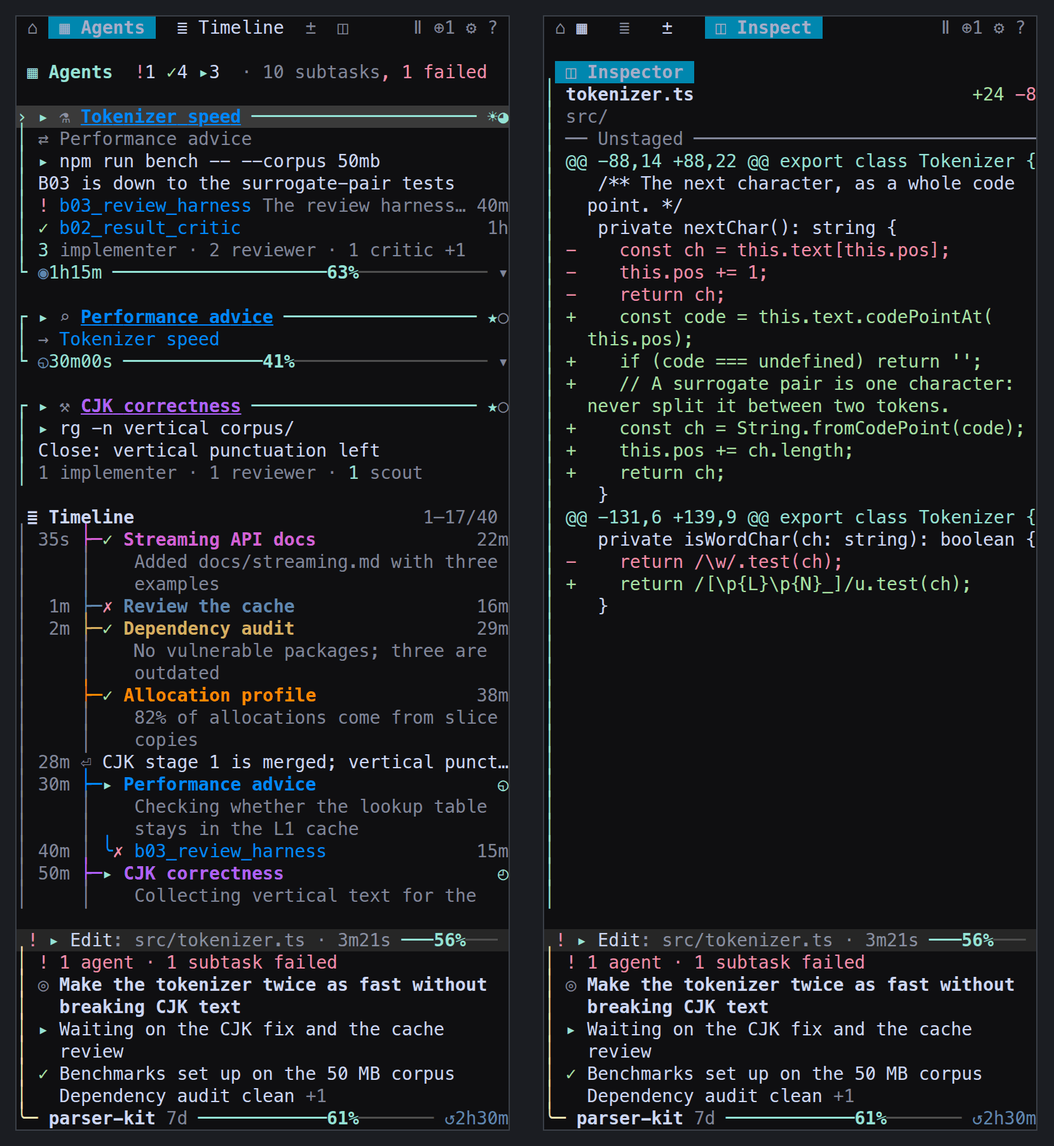
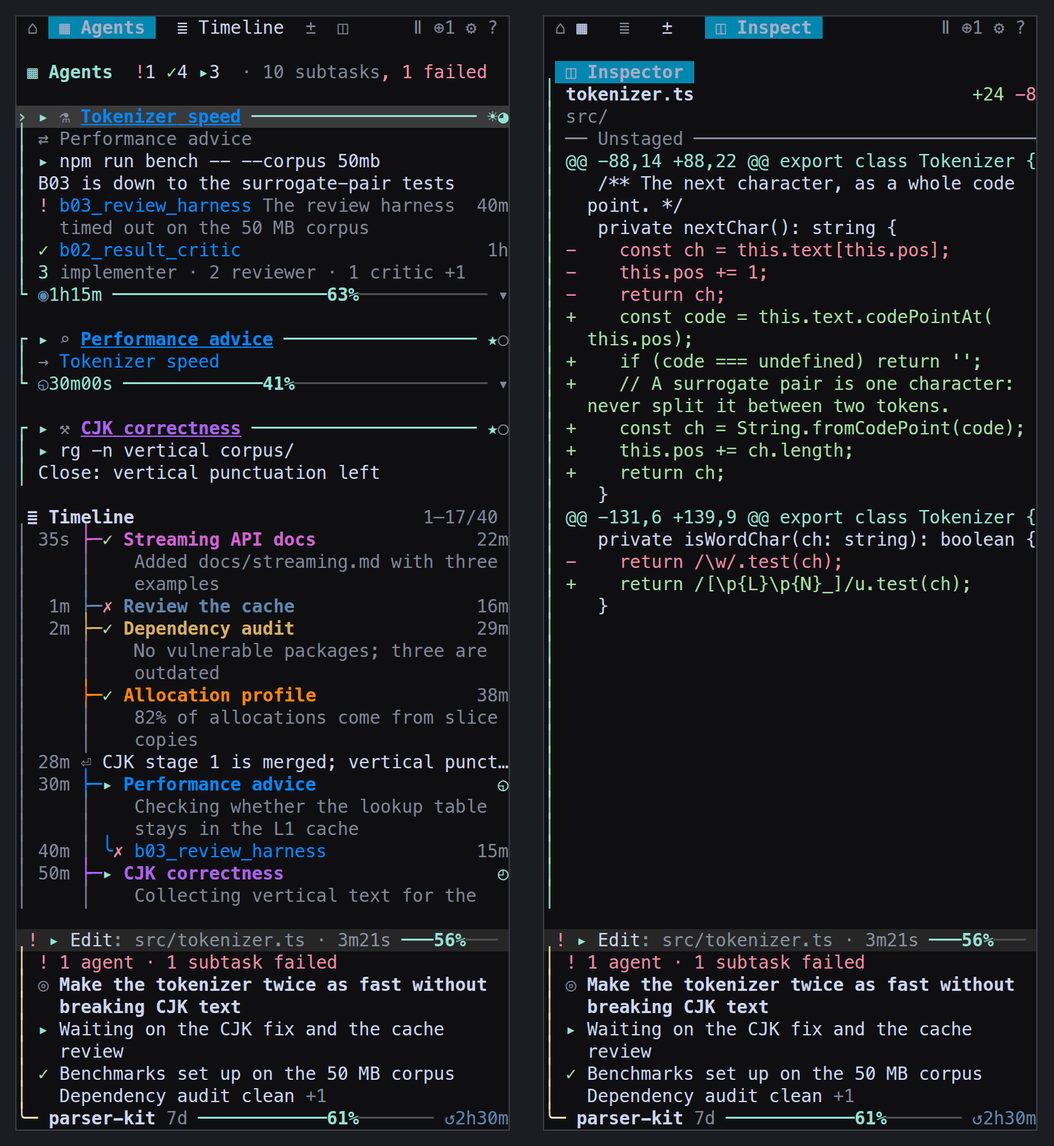
Wrap a subtask's digest or cause under its name on a card, whole, where it was cut with `…`: the words start beside the name and continue under it, on the next line when the name leaves fewer than eight columns, the clock or age stays at the right of the first line, and a click on any of its lines s

diff --git a/src/render/cards.ts b/src/render/cards.ts
@@ -19,7 +19,8 @@
  *   │ ⇄ Performance advice
  *   │ ▸ npm run bench -- --corpus 50mb
  *   │ B03 is down to the surrogate-pair tests
- *   │ ! b03_review_harness The review harness… 40m
+ *   │ ! b03_review_harness The review harness  40m
+ *   │   timed out on the 50 MB corpus
  *   │ ✓ b02_result_critic                     1h
  *   │ 3 implementer · 2 reviewer · 1 critic +1
  *   └ ◉1h15m · ~42 tok/s ─────63%─────────── ▾
@@ -56,6 +57,8 @@ const TIMELINE_LINES = 20;
 const NOTES_SHOWN = 3;
 /** The important subtasks a closed card names; opened, it names them all. */
 const KIDS_SHOWN = 3;
+/** The fewest columns a subtask's digest or cause starts with beside its name; less, it starts on the next line. */
+const KID_SAID_BESIDE = 8;
 /** Narrower than this, a card gives up its model badge; narrower still, its meter. */
 const BADGE_MIN = 24;
 const METER_MIN = 20;
@@ -490,12 +493,15 @@ function importantKids(node: SubagentTreeNode, input: MonitorData, state: Monito
 }
 
 /**
- * A subtask's line on its lead's card: its status, its name, the model's
+ * A subtask's lines on its lead's card: its status, its name, the model's
  * digest of what it returned or, failed, why (dim, with no mark; its own
- * answer is the Inspector's), and its time at the right: its clock while it runs, else how long ago it finished. A click
- * selects it, for the Inspector.
+ * answer is the Inspector's), and its time at the right of the first line:
+ * its clock while it runs, else how long ago it finished. The model's words
+ * start beside the name and wrap under it, whole, never cut; where the name
+ * leaves them too little room they start on the next line. A click on any
+ * of its lines selects it, for the Inspector.
  */
-function kidLine(kid: SubagentTreeNode, input: MonitorData, state: MonitorState, width: number, now: number): string {
+function kidLines(kid: SubagentTreeNode, input: MonitorData, state: MonitorState, width: number, now: number): string[] {
   const st = nodeStatus(kid,now);
   const live = isLive(kid);
   const start = (kid.turnStartedAt ?? kid.startedAt)?.getTime();
@@ -510,8 +516,12 @@ function kidLine(kid: SubagentTreeNode, input: MonitorData, state: MonitorState,
   const room = Math.max(1,width-visualLength(head)-(when ? visualLength(when)+1 : 0));
   const name = squeeze(monitorText(agentTitle(kid,state.labelAsName).name),room);
   const named = directions(input.tree).paint(kid.id)(name);
-  const left = `${head}${named}${said && visualLength(name)+2 < room ? ` ${colors.dim(said)}` : ''}`;
-  return pair(left,right,width);
+  const indent = visualLength(head);
+  const beside = room-visualLength(name)-1;
+  const rest = Math.max(1,width-indent);
+  const words = !said ? [] : beside >= KID_SAID_BESIDE ? hangLines(said,beside,rest) : ['',...flowLines(said,rest)];
+  const first = pair(`${head}${named}${words[0] ? ` ${colors.dim(words[0])}` : ''}`,right,width);
+  return [first,...words.slice(1).map(line => ' '.repeat(indent)+colors.dim(line))];
 }
 
 /**
@@ -620,7 +630,7 @@ export function agentCard(row: PanelRow, input: MonitorData, state: MonitorState
   const kids = (all: boolean) => {
     const important = importantKids(node,input,state);
     const named = all ? important : important.slice(0,KIDS_SHOWN);
-    for (const kid of named) push(kidLine(kid,input,state,inner,now),kid.id);
+    for (const kid of named) for (const line of kidLines(kid,input,state,inner,now)) push(line,kid.id);
     if (named.length < important.length) push(colors.dim(t('+{n} more',{n:important.length-named.length})));
     const roles = state.roleCounts === false ? '' : roleLine(node,input.tree,inner);
     if (roles) push(roles);

diff --git a/tests/unit/cards-l1.test.ts b/tests/unit/cards-l1.test.ts
@@ -109,6 +109,33 @@ test('the subtasks that matter: failed, a named role (or its end), or flagged; t
   assert.ok(plain(draw(picked, 52, tree).lines).some(line => line.startsWith('│ ›! scout_a')));
 });
 
+test('a subtask\'s digest or cause wraps under its name, whole; with too little room beside the name it starts on the next line', () => {
+  const cause = 'The harness timed out on the large corpus after the cache warmed up';
+  const tree = session();
+  tree.nodes[0].children = tree.nodes[0].children.map(kid => kid.id === 's1' ? { ...kid, name: 'scout_streams_long_name' } : kid);
+  const log = new Map<string, AgentLogEntry[]>([['s1', [{ at: NOW - 60_000, kind: 'cause', text: cause }]]]);
+  const said = (width: number) => {
+    const frame = draw(rich(), width, tree, log);
+    const lead = card(plain(frame.lines), 'parser_lead');
+    const at = lead.findIndex(line => line.includes('scout_streams'));
+    const lines = [lead[at], ...lead.slice(at + 1).filter((line, i, all) => all.slice(0, i + 1).every(l => /^│ {3}\S/.test(l)))];
+    return { frame, lines };
+  };
+  for (const width of [32, 44, 56]) {
+    const { lines } = said(width);
+    assert.ok(!lines.some(line => line.includes('…')), lines.join('\n'));
+    assert.match(lines[0], /20m$/, 'its time stays at the right of its first line');
+    const words = lines.map(line => line.replace(/^│ (! scout_\S*)?/, '').replace(/20m$/, '').trim()).join(' ').trim();
+    assert.equal(words, cause, `${width}: ${lines.join('\n')}`);
+  }
+  // Narrow, the name leaves no room beside it: the words start under it.
+  assert.match(said(32).lines[0], /^│ ! scout_streams_long_name +20m$/);
+  // A click on a wrapped line selects the subtask too.
+  const { frame } = said(44);
+  const y = frame.lines.findIndex(line => stripAnsi(line).startsWith('│   ') && stripAnsi(line).includes('corpus'));
+  assert.equal(handleMonitorInput(frame.state, { type: 'mouse', button: 'left', x: 6, y }, { tree, frame, nowMs: NOW }).state.tree.selectedId, 's1');
+});
+
 test('the role counts can be left out, and the corners can be round', () => {
   const lines = plain(draw(rich({ roleCounts: false, cardCorners: 'round', tree: { ...initialMonitorState().tree, selectedId: 'writer' } })).lines);
   const lead = card(lines, 'parser_lead');

diff --git a/docs/reference.md b/docs/reference.md
@@ -17,7 +17,7 @@ There are four panes: **1 Agents** (the cards in rich, the tree in compact), **2
 
 **Two layouts** (Settings → Panel → Layout, applied at once):
 
-- **rich** (the default): the agents as cards. One line at the top counts the agents the main session started by how they stand (`!1 failed  ✓3 done  ▸3 run`, each count with its word; one counts as running while a subtask of it runs), with `◈N` for the session's guardian reviews (in the error colour when one failed) and, where it fits, how many subtasks the L1s have at any depth and how many of them failed (`· 17 subtasks, 1 failed`), which outlasts the counts' words and the view's `4–19/46` on a narrow panel (`!1 ✓3 ▸3  · 17 subtasks, 1 failed`), and after it, while agents write, how fast all of them write together (`· ~186 tok/s`: every running agent's rate, subtasks and reviews included; the main session's own is the band's), which gives way with the subtasks figure; under it, in one scrolling view, an entry for each agent the main session started (an **L1** agent), in the list's order, under the same filter and linger window. The agents those started (**L2**: implementers, reviewers, scouts and the like) have no entry of their own: they are on their lead's card. An L1 at work (running, or with a subtask running), opened, or needing a look gets a **card**, open on the right. Its top rule has the status icon, a glyph for the kind of work (when Labels and title gave one), the agent's name in its direction's colour (the colour the timeline gives the same agents; middle-cut when long, underlined because a click on it switches to the agent), `◈N` for its guardian reviews and the model/effort badge; the bottom rule has the turn clock counting seconds while it runs (`◷4m07s`, in the warning colour when quiet) and, while it writes, its output rate (`· ~42 tok/s`: output tokens over the last half minute or more of its rollout's reports, a turn start beginning it afresh, as the main session's is taken; gone when its newest report is three minutes old, when it rounds to nothing, or where it would leave the meter under twelve columns), or how long ago it finished or failed (`12d`), then the agent's context meter filling the rest of the rule as a thin line with its percentage at the end of the fill (`────57%──────`), and `▾`. Inside, a line each, and each only when there is something to say: the model's short name for it, strong, when Label as name is off; no task and none of its own words, opened or closed, which a line cut short said too little of: they are the Inspector's, whole; who it works with (on a lead, `⇄` and the agents without subtasks it exchanged three or more messages with; on one of those, `→` and the lead it works for, in that lead's colour); what it is doing this moment (`▸ npm run bench`, its open tool call); the model's newest notes (Agents brief notes, Result digests and Failure causes; the only prose a card holds, so no mark sets them apart), while it works the newest three (Settings → Agents → Notes on card, 1 to 5), each whole, its later lines hanging two columns in, newest first, the newest in the text colour and the older ones dim, and at rest the newest alone, one line; the subtasks that matter, three at most and failures first, each with its status, its name, the digest of what it returned (from Result digest) or, failed, why (from Failure cause), dim, and its clock or age at the right; and the rest of its subtasks counted by role (`3 implementer · 2 reviewer · 1 critic +1`, a prefix every role shares left out). A subtask matters when it failed, a note flagged it, or its role is named in `importantRoles` (see [Settings](#settings)); Settings → Agents → Role counts hides the count line. Cards take their state's colour: running info, quiet warning, and, opened or flagged, failed error and just finished success; the selected card's top rule sits on a lighter band. Settings → Agents → Card corners draws them square (`┌`, the default) or round (`╭`). Every other L1, at rest (finished, failed or unknown), is **two lines**: `✓ audit_deps   ☽◐ ───57%──── 12d`, its meter and age in columns down the list, and under it, indented and dim, the model's newest note about it, cut to the line; with no note, no second line. Names come first: where the meters would cut most of the names, the list draws none, and a run of rows of the same age says it once, at the top of the run. `j`/`k` move over the cards and the two-line rows, a two-line row only marked (its first line on the lighter band), and `e`, Space or a click opens it into its card. An opened card (`e`, Space, or a click on its top rule or `▾`) adds the name Codex prints when a label stands in for it and names every subtask that matters, then the agent's log newest first without its updates: the model's notes whole, the newest in the text colour and the rest dim, and its starts, finishes and failures, about twenty lines, the rest left to the Inspector. A click on a subtask's line selects that subtask, for the Inspector. Agent text loses its chat markdown in cards and the Inspector: links keep their text, bold, code and heading marks go, a full commit hash shows seven characters. Guardian review threads get no card: they are the `◈N` chip, and a failed one still shows in the list, as a row. The main session's brief is not in this view: it is in the status card at the foot (below).
+- **rich** (the default): the agents as cards. One line at the top counts the agents the main session started by how they stand (`!1 failed  ✓3 done  ▸3 run`, each count with its word; one counts as running while a subtask of it runs), with `◈N` for the session's guardian reviews (in the error colour when one failed) and, where it fits, how many subtasks the L1s have at any depth and how many of them failed (`· 17 subtasks, 1 failed`), which outlasts the counts' words and the view's `4–19/46` on a narrow panel (`!1 ✓3 ▸3  · 17 subtasks, 1 failed`), and after it, while agents write, how fast all of them write together (`· ~186 tok/s`: every running agent's rate, subtasks and reviews included; the main session's own is the band's), which gives way with the subtasks figure; under it, in one scrolling view, an entry for each agent the main session started (an **L1** agent), in the list's order, under the same filter and linger window. The agents those started (**L2**: implementers, reviewers, scouts and the like) have no entry of their own: they are on their lead's card. An L1 at work (running, or with a subtask running), opened, or needing a look gets a **card**, open on the right. Its top rule has the status icon, a glyph for the kind of work (when Labels and title gave one), the agent's name in its direction's colour (the colour the timeline gives the same agents; middle-cut when long, underlined because a click on it switches to the agent), `◈N` for its guardian reviews and the model/effort badge; the bottom rule has the turn clock counting seconds while it runs (`◷4m07s`, in the warning colour when quiet) and, while it writes, its output rate (`· ~42 tok/s`: output tokens over the last half minute or more of its rollout's reports, a turn start beginning it afresh, as the main session's is taken; gone when its newest report is three minutes old, when it rounds to nothing, or where it would leave the meter under twelve columns), or how long ago it finished or failed (`12d`), then the agent's context meter filling the rest of the rule as a thin line with its percentage at the end of the fill (`────57%──────`), and `▾`. Inside, a line each, and each only when there is something to say: the model's short name for it, strong, when Label as name is off; no task and none of its own words, opened or closed, which a line cut short said too little of: they are the Inspector's, whole; who it works with (on a lead, `⇄` and the agents without subtasks it exchanged three or more messages with; on one of those, `→` and the lead it works for, in that lead's colour); what it is doing this moment (`▸ npm run bench`, its open tool call); the model's newest notes (Agents brief notes, Result digests and Failure causes; the only prose a card holds, so no mark sets them apart), while it works the newest three (Settings → Agents → Notes on card, 1 to 5), each whole, its later lines hanging two columns in, newest first, the newest in the text colour and the older ones dim, and at rest the newest alone, one line; the subtasks that matter, three at most and failures first, each with its status, its name, the digest of what it returned (from Result digest) or, failed, why (from Failure cause), dim, beside its name and wrapped under it, whole (on the next line when the name leaves too little room), and its clock or age at the right of its first line; and the rest of its subtasks counted by role (`3 implementer · 2 reviewer · 1 critic +1`, a prefix every role shares left out). A subtask matters when it failed, a note flagged it, or its role is named in `importantRoles` (see [Settings](#settings)); Settings → Agents → Role counts hides the count line. Cards take their state's colour: running info, quiet warning, and, opened or flagged, failed error and just finished success; the selected card's top rule sits on a lighter band. Settings → Agents → Card corners draws them square (`┌`, the default) or round (`╭`). Every other L1, at rest (finished, failed or unknown), is **two lines**: `✓ audit_deps   ☽◐ ───57%──── 12d`, its meter and age in columns down the list, and under it, indented and dim, the model's newest note about it, cut to the line; with no note, no second line. Names come first: where the meters would cut most of the names, the list draws none, and a run of rows of the same age says it once, at the top of the run. `j`/`k` move over the cards and the two-line rows, a two-line row only marked (its first line on the lighter band), and `e`, Space or a click opens it into its card. An opened card (`e`, Space, or a click on its top rule or `▾`) adds the name Codex prints when a label stands in for it and names every subtask that matters, then the agent's log newest first without its updates: the model's notes whole, the newest in the text colour and the rest dim, and its starts, finishes and failures, about twenty lines, the rest left to the Inspector. A click on a subtask's line selects that subtask, for the Inspector. Agent text loses its chat markdown in cards and the Inspector: links keep their text, bold, code and heading marks go, a full commit hash shows seven characters. Guardian review threads get no card: they are the `◈N` chip, and a failed one still shows in the list, as a row. The main session's brief is not in this view: it is in the status card at the foot (below).
 - **compact**: the Agents pane (the tree, one row per agent and subtask, by Codex's own name, under the same title row as rich) with the brief, the recap and the agent log under it, as before.
 
 Every view counts alike: an **agent** is one the main session started, a **subtask** an agent under one, at any depth, and a **review** a guardian approval review, wherever it sits. The Agents pane's title row and cards, the status card's alert and notifications, which say the failures as one phrase (`! 1 agent · 1 subtask · 1 review failed`), the bar's Agents field and alert, the Agents brief and `codex-hud --json` all count the three apart, and an agent counts as running while a subtask of it runs. A card counts its subtasks at every depth and shows its reviews as its `◈N`, red when one failed.

diff --git a/docs/reference.zh.md b/docs/reference.zh.md
@@ -18,7 +18,7 @@
 
 **两种布局**（设置 → Panel →「布局」，保存后立即生效）：
 
-- **卡片**（rich，默认）：agent 以卡片显示。顶部一行按状态统计主会话启动的 agent（`!1 失败  ✓3 完成  ▸3 运行`，每个数字都带文字；子任务还在运行的也算运行中），会话中的守护评审以 `◈N` 显示在这一行（有评审失败时为错误色），放得下时还写出这些 agent 之下（各层级）一共有多少子任务、其中几个失败（`· 17 子任务，1 失败`），面板窄时计数先去掉文字，视图的 `4–19/46` 也让位，这一项留到最后（`!1 ✓3 ▸3  · 17 子任务，1 失败`）；之后在有 agent 输出时写它们合计的输出速度（`· ~186 tok/s`：所有运行中 agent 的速度之和，包括子任务和评审；主会话自己的速度在色带上），和子任务数一起让位；其下是一个可滚动的视图：主会话启动的每个 agent（**L1**）一项，顺序、筛选和收起规则与列表相同。L1 再启动的 agent（**L2**：implementer、reviewer、scout 之类）不单独成项，而是在它们的 L1 的卡片里。工作中（自己在运行，或有子任务在运行）、被展开以及需要留意的 L1 是一张**卡片**，右侧不封口。顶边是状态图标、任务类型图形（“短标签和标题”给出时）、agent 的名字（用它所在方向的颜色，和时间线里同一批 agent 的颜色一致；过长时从中间截断；带下划线，点击它即切换到该 agent）、它的守护评审 `◈N` 和模型/推理徽标；底边是运行中的本轮时钟（`◷4m07s`，按秒走，静默时为警告色），有输出时其后是它的输出速度（`· ~42 tok/s`：按它 rollout 里最近半分钟以上的报告算输出 token，新一轮重新开始，与主会话的算法相同；最新报告超过三分钟、四舍五入为 0，或会让用量条短于 12 列时不写），或完成/失败多久了（`12d`），然后是填满剩余底边的上下文用量细线，百分比写在填充的末端（`────57%──────`），以及 `▾`。卡片里每项一行，没有内容的不写：「标签作名字」关闭时，模型给它起的短名（加粗）；不写任务，也不写它自己的话（收起和展开都不写），截成一行的原文读不出东西，它们完整地留在详情里；它和谁协作（负责人的卡片写 `⇄` 和与它互发三条以上消息、自己没有子任务的 agent；后者的卡片写 `→` 和它服务的负责人，用负责人的颜色）；它此刻在做什么（`▸ npm run bench`，它尚未返回的工具调用）；模型写的最新说明（简报说明、结果摘要、失败原因；卡片上只有这一种文字，所以不加标记）：工作中显示最新的三条（设置 → Agents →「卡片说明条数」，1–5），每条完整、续行缩进两格，新的在前，最新一条为正文色、较旧的为暗色；空闲时只显示最新一条，截成一行；要紧的子任务，最多三个，失败的在前，每个写状态、名字、它返回内容的摘要（来自「结果摘要」），失败时写原因（来自「失败原因」），暗色，右端是时钟或距今时间；其余子任务按角色计数（`3 implementer · 2 reviewer · 1 critic +1`，所有角色共有的前缀不写）。失败的、被说明标为需要留意的，或角色列在 `importantRoles` 里的子任务算要紧（见[设置](#设置)）；设置 → Agents →「角色统计」可以隐藏计数那一行。卡片按状态着色：运行中为信息色、静默为警告色，展开或需要留意时，失败为错误色、刚完成为成功色；选中卡片的顶边落在一条较亮的色带上。设置 → Agents →「卡片边角」选直角（`┌`，默认）或圆角（`╭`）。其余空闲的 L1（已完成、失败或状态未知）各占**两行**：`✓ audit_deps   ☽◐ ───57%──── 12d`，用量条和时间在各行对齐；下一行缩进、暗色，写模型关于它的最新一条说明，截成一行；没有说明就没有第二行。名字优先：用量条会截断多数名字时，整个列表都不画用量条；连续几行时间相同时，只在第一行写出时间。`j`/`k` 在卡片和两行的条目之间移动，两行的条目只是被标记（第一行落在较亮的色带上），`e`、空格或点击才把它展开成卡片。展开卡片（`e`、空格，或点击顶边或 `▾`）时，标签替换了名字的会写出 Codex 的原名，并列出所有要紧的子任务，然后是该 agent 的日志（新的在前，不含它自己的汇报：完整的模型说明（最新一条为正文色，其余暗色）和开始、完成、失败，约 20 行，其余见详情区域）。点击某个子任务那一行会选中它，供详情区域查看。卡片和详情区域里 agent 的文字去掉聊天用的 markdown：链接只留文字，粗体、代码和标题标记去掉，完整的提交哈希只显示前 7 位。守护评审线程没有自己的卡片，只是 `◈N` 标记；失败的仍会在列表中显示为一行。主会话的简报不在这个视图里，而在底部的状态卡中（见下）。
+- **卡片**（rich，默认）：agent 以卡片显示。顶部一行按状态统计主会话启动的 agent（`!1 失败  ✓3 完成  ▸3 运行`，每个数字都带文字；子任务还在运行的也算运行中），会话中的守护评审以 `◈N` 显示在这一行（有评审失败时为错误色），放得下时还写出这些 agent 之下（各层级）一共有多少子任务、其中几个失败（`· 17 子任务，1 失败`），面板窄时计数先去掉文字，视图的 `4–19/46` 也让位，这一项留到最后（`!1 ✓3 ▸3  · 17 子任务，1 失败`）；之后在有 agent 输出时写它们合计的输出速度（`· ~186 tok/s`：所有运行中 agent 的速度之和，包括子任务和评审；主会话自己的速度在色带上），和子任务数一起让位；其下是一个可滚动的视图：主会话启动的每个 agent（**L1**）一项，顺序、筛选和收起规则与列表相同。L1 再启动的 agent（**L2**：implementer、reviewer、scout 之类）不单独成项，而是在它们的 L1 的卡片里。工作中（自己在运行，或有子任务在运行）、被展开以及需要留意的 L1 是一张**卡片**，右侧不封口。顶边是状态图标、任务类型图形（“短标签和标题”给出时）、agent 的名字（用它所在方向的颜色，和时间线里同一批 agent 的颜色一致；过长时从中间截断；带下划线，点击它即切换到该 agent）、它的守护评审 `◈N` 和模型/推理徽标；底边是运行中的本轮时钟（`◷4m07s`，按秒走，静默时为警告色），有输出时其后是它的输出速度（`· ~42 tok/s`：按它 rollout 里最近半分钟以上的报告算输出 token，新一轮重新开始，与主会话的算法相同；最新报告超过三分钟、四舍五入为 0，或会让用量条短于 12 列时不写），或完成/失败多久了（`12d`），然后是填满剩余底边的上下文用量细线，百分比写在填充的末端（`────57%──────`），以及 `▾`。卡片里每项一行，没有内容的不写：「标签作名字」关闭时，模型给它起的短名（加粗）；不写任务，也不写它自己的话（收起和展开都不写），截成一行的原文读不出东西，它们完整地留在详情里；它和谁协作（负责人的卡片写 `⇄` 和与它互发三条以上消息、自己没有子任务的 agent；后者的卡片写 `→` 和它服务的负责人，用负责人的颜色）；它此刻在做什么（`▸ npm run bench`，它尚未返回的工具调用）；模型写的最新说明（简报说明、结果摘要、失败原因；卡片上只有这一种文字，所以不加标记）：工作中显示最新的三条（设置 → Agents →「卡片说明条数」，1–5），每条完整、续行缩进两格，新的在前，最新一条为正文色、较旧的为暗色；空闲时只显示最新一条，截成一行；要紧的子任务，最多三个，失败的在前，每个写状态、名字、它返回内容的摘要（来自「结果摘要」），失败时写原因（来自「失败原因」），暗色，接在名字后面并在下方换行，完整显示（名字后空间太少时从下一行开始），第一行右端是时钟或距今时间；其余子任务按角色计数（`3 implementer · 2 reviewer · 1 critic +1`，所有角色共有的前缀不写）。失败的、被说明标为需要留意的，或角色列在 `importantRoles` 里的子任务算要紧（见[设置](#设置)）；设置 → Agents →「角色统计」可以隐藏计数那一行。卡片按状态着色：运行中为信息色、静默为警告色，展开或需要留意时，失败为错误色、刚完成为成功色；选中卡片的顶边落在一条较亮的色带上。设置 → Agents →「卡片边角」选直角（`┌`，默认）或圆角（`╭`）。其余空闲的 L1（已完成、失败或状态未知）各占**两行**：`✓ audit_deps   ☽◐ ───57%──── 12d`，用量条和时间在各行对齐；下一行缩进、暗色，写模型关于它的最新一条说明，截成一行；没有说明就没有第二行。名字优先：用量条会截断多数名字时，整个列表都不画用量条；连续几行时间相同时，只在第一行写出时间。`j`/`k` 在卡片和两行的条目之间移动，两行的条目只是被标记（第一行落在较亮的色带上），`e`、空格或点击才把它展开成卡片。展开卡片（`e`、空格，或点击顶边或 `▾`）时，标签替换了名字的会写出 Codex 的原名，并列出所有要紧的子任务，然后是该 agent 的日志（新的在前，不含它自己的汇报：完整的模型说明（最新一条为正文色，其余暗色）和开始、完成、失败，约 20 行，其余见详情区域）。点击某个子任务那一行会选中它，供详情区域查看。卡片和详情区域里 agent 的文字去掉聊天用的 markdown：链接只留文字，粗体、代码和标题标记去掉，完整的提交哈希只显示前 7 位。守护评审线程没有自己的卡片，只是 `◈N` 标记；失败的仍会在列表中显示为一行。主会话的简报不在这个视图里，而在底部的状态卡中（见下）。
 - **紧凑**（compact）：Agents 区域（树，每个 agent 和子任务一行，用 Codex 的原名，标题行与卡片布局相同），下面是简报、回顾和 agent 日志，与之前相同。
 
 所有视图的计数口径一致：**agent** 指主会话启动的 agent，**子任务**指它们之下任意层级的 agent，**评审**指守护批准评审（不论挂在哪一层）。Agents 区域的标题行和卡片、状态卡的警报和通知（各种失败合成一句：`! 1 个 agent · 1 个子任务 · 1 个评审 失败`）、状态栏的 Agents 字段和警报、Agent 简报以及 `codex-hud --json` 都把三者分开计数；子任务还在运行的 agent 也算运行中。卡片上的子任务包括各层级，评审显示为卡片的 `◈N`，有评审失败时为红色。

diff --git a/docs/ARCHITECTURE.md b/docs/ARCHITECTURE.md
@@ -458,6 +458,9 @@ rules below were set by the user; keep them.
   newest `cardNotes` notes (Settings, 1–5, default 3), each wrapped in full and
   never cut. The newest is in the text colour (the warning colour when
   flagged). Older notes are dim. There is no `~` mark on cards.
+- **A subtask line** (`kidLines`) has the model's digest or cause beside the
+  name, wrapped under it in full. When the name leaves less than
+  `KID_SAID_BESIDE` columns, the words start on the next line.
 - **A resting agent** (not working, no subtask working, not opened, nothing
   flagged; `isOneLine`) is its row, with the newest note (`briefLine`) on a
   dim line under it. Cutting that note to one line is acceptable there.
